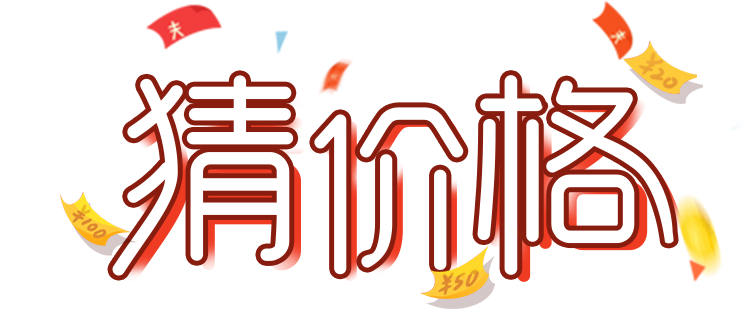
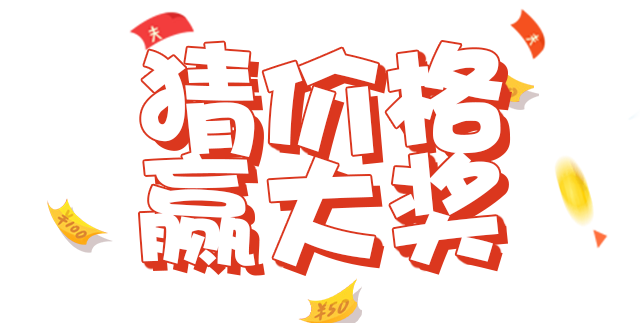
feat 活动规则

diff --git a/styles/common.css b/styles/common.css
@@ -1,1 +1,1 @@
-@import url(../js/lib/animate.css);*{box-sizing:border-box;-webkit-tap-highlight-color:transparent;-webkit-appearance:none}*:focus{outline:none}html,body{margin:0;padding:0;height:100%;background:#FD6B51}ul,li{margin:0;padding:0;list-style:none}#scene1,#scene2{width:16rem;position:fixed;top:0;left:0;right:0;bottom:0;margin:auto}@media screen and (max-height: 1000px){html[data-dpr="2"]{font-size:36.5px !important}}@media screen and (max-height: 1560px){html[data-dpr="3"]{font-size:61.5px !important}}.toast-container{position:fixed;color:#FF281E;font-weight:bold;background:#FFFD65;padding:.64rem .74667rem;font-size:.74667rem;animation-duration:.3s;border-radius:.21333rem 0 0 .21333rem;top:13.01333rem;right:0}.toast-container.top{min-width:100%;top:0;border-radius:0}#scene1{height:100%;background:linear-gradient(to bottom, #ff5d46 60%, #d62514 80%);background-size:100%;display:none}#scene1 .container .title{width:16rem;height:6.61333rem;animation-delay:.5s;animation-duration:.7s;background:url("../img/s1-1.png") no-repeat 0 0;background-size:100%}#scene1 .container .body{width:16rem;height:14.74133rem;background:url("../img/s1-2.png") no-repeat 0 0;background-size:100%}#scene1 .container .action{margin-top:1.06667rem;text-align:center;animation-delay:.9s;animation-duration:.5s}#scene1 .container .action.flash{animation-delay:.5s}#scene1 .container .action button{width:6.80533rem;height:1.74933rem;text-indent:-9999em;border:none;background:url("../img/s1-3.png") no-repeat 0 0;background-size:100%}#scene2{height:100%;display:none;background-image:linear-gradient(180deg, #ff6f55, #db2b13);animation-duration:.4s}#scene2 .ask{animation-name:fadeInUp;animation-delay:.3s;animation-duration:.5s}#scene2 .prices .item{animation-name:fadeInUp;animation-delay:.5s;animation-duration:.5s}#scene2 .goods{width:14.464rem;height:15.72267rem;margin:-.85333rem auto 0;position:relative;background:url("../img/s2-bg.png") no-repeat 0 0;background-size:100%}#scene2 .goods .pin{width:.66133rem;height:.68267rem;content:'';position:absolute;background:url("../img/s2-1.png") no-repeat 0 0;background-size:100%;z-index:5}#scene2 .goods .pin.tl{top:2.13333rem;left:.32rem}#scene2 .goods .pin.tr{top:2.13333rem;right:.64rem}#scene2 .goods .pin.bl{top:14.4rem;left:.32rem}#scene2 .goods .pin.br{top:14.4rem;right:.64rem}#scene2 .goods .img{width:13.952rem;height:13.33333rem;position:absolute;top:1.96267rem;left:.128rem;border-radius:.21333rem;overflow:hidden}#scene2 .goods .img img{width:inherit;height:inherit}#scene2 .goods .img .title{height:2.13333rem;font-size:.59733rem;position:relative;color:#fff;transform:translate(0, -110%);background:rgba(0,0,0,0.5);padding:.21333rem 1.06667rem 0}#scene2 .ask{width:14.464rem;text-align:center;margin:.74667rem auto .32rem}#scene2 .ask img{width:100%;height:100%}#scene2 .prices{width:100%;display:inline-flex;flex-wrap:wrap;justify-content:space-around}#scene2 .prices .item{width:50%;margin-bottom:.85333rem;text-align:center}#scene2 .prices .item button{width:5.97333rem;height:1.344rem;color:#fff;font-size:.85333rem;padding-left:1.45067rem;border:.08533rem solid #fff;border-radius:.64rem;display:inline-block;background:#FF5248;position:relative;box-shadow:.04267rem 0 0 .10667rem #FF7966;transition:.3s;animation-duration:0.1s}#scene2 .prices .item button.flip{animation-duration:1s}#scene2 .prices .item button.success{border-color:#FFFD65}#scene2 .prices .item button.success:before{background:#FFFD65}#scene2 .prices .item button.disabled{color:#cecece;background:#eee}#scene2 .prices .item button.disabled:before{color:#eee;background:#ccc}#scene2 .prices .item button:before{width:1.45067rem;height:1.45067rem;line-height:1.45067rem;position:absolute;font-size:.85333rem;font-weight:bold;top:-.17067rem;left:-.08533rem;color:#E43720;background:#fff;border-radius:50%;content:'￥'}
+@import url(../js/lib/animate.css);*{box-sizing:border-box;-webkit-tap-highlight-color:transparent;-webkit-appearance:none}*:focus{outline:none}html,body{margin:0;padding:0;height:100%;background:#FD6B51}ul,li{margin:0;padding:0;list-style:none}#scene1,#scene2{width:16rem;position:fixed;top:0;left:0;right:0;bottom:0;margin:auto}@media screen and (max-height: 1000px){html[data-dpr="2"]{font-size:36.5px !important}}@media screen and (max-height: 1560px){html[data-dpr="3"]{font-size:61.5px !important}}.toast-container{position:fixed;color:#FF281E;font-weight:bold;background:#FFFD65;padding:.64rem .74667rem;font-size:.74667rem;animation-duration:.3s;border-radius:.21333rem 0 0 .21333rem;top:13.01333rem;right:0}.toast-container.top{min-width:100%;top:0;border-radius:0}#scene1{height:100%;background:linear-gradient(to bottom, #ff5d46 60%, #d62514 80%);background-size:100%;display:none}#scene1 .container .rules{width:1.96267rem;height:2.02667rem;animation-delay:.9s;animation-duration:.7s;background:url("../img/game-rules.png") no-repeat 0 0;background-size:100%;position:absolute;top:0;right:.64rem;z-index:2}#scene1 .container .title{width:16rem;height:8.08533rem;animation-delay:.5s;animation-duration:.7s;background:url("../img/s1-1.png") no-repeat 0 0;background-size:100%;z-index:1}#scene1 .container .body{width:16rem;height:14.74133rem;background:url("../img/s1-2.png") no-repeat 0 0;background-size:100%}#scene1 .container .action{margin-top:1.06667rem;text-align:center;animation-delay:.9s;animation-duration:.5s}#scene1 .container .action.flash{animation-delay:.5s}#scene1 .container .action button{width:6.80533rem;height:1.74933rem;text-indent:-9999em;border:none;background:url("../img/s1-3.png") no-repeat 0 0;background-size:100%}#scene2{height:100%;display:none;background-image:linear-gradient(180deg, #ff6f55, #db2b13);animation-duration:.4s}#scene2 .ask{animation-name:fadeInUp;animation-delay:.3s;animation-duration:.5s}#scene2 .prices .item{animation-name:fadeInUp;animation-delay:.5s;animation-duration:.5s}#scene2 .goods{width:14.464rem;height:15.72267rem;margin:-.85333rem auto 0;position:relative;background:url("../img/s2-bg.png") no-repeat 0 0;background-size:100%}#scene2 .goods .pin{width:.66133rem;height:.68267rem;content:'';position:absolute;background:url("../img/s2-1.png") no-repeat 0 0;background-size:100%;z-index:5}#scene2 .goods .pin.tl{top:2.13333rem;left:.32rem}#scene2 .goods .pin.tr{top:2.13333rem;right:.64rem}#scene2 .goods .pin.bl{top:14.4rem;left:.32rem}#scene2 .goods .pin.br{top:14.4rem;right:.64rem}#scene2 .goods .img{width:13.952rem;height:13.33333rem;position:absolute;top:1.96267rem;left:.128rem;border-radius:.21333rem;overflow:hidden}#scene2 .goods .img img{width:inherit;height:inherit}#scene2 .goods .img .title{height:2.13333rem;font-size:.59733rem;position:relative;color:#fff;transform:translate(0, -110%);background:rgba(0,0,0,0.5);padding:.21333rem 1.06667rem 0}#scene2 .ask{width:14.464rem;text-align:center;margin:.74667rem auto .32rem}#scene2 .ask img{width:100%;height:100%}#scene2 .prices{width:100%;display:inline-flex;flex-wrap:wrap;justify-content:space-around}#scene2 .prices .item{width:50%;margin-bottom:.85333rem;text-align:center}#scene2 .prices .item button{width:5.97333rem;height:1.344rem;color:#fff;font-size:.85333rem;padding-left:1.45067rem;border:.08533rem solid #fff;border-radius:.64rem;display:inline-block;background:#FF5248;position:relative;box-shadow:.04267rem 0 0 .10667rem #FF7966;transition:.3s;animation-duration:0.1s}#scene2 .prices .item button.flip{animation-duration:1s}#scene2 .prices .item button.success{border-color:#FFFD65}#scene2 .prices .item button.success:before{background:#FFFD65}#scene2 .prices .item button.disabled{color:#cecece;background:#eee}#scene2 .prices .item button.disabled:before{color:#eee;background:#ccc}#scene2 .prices .item button:before{width:1.45067rem;height:1.45067rem;line-height:1.45067rem;position:absolute;font-size:.85333rem;font-weight:bold;top:-.17067rem;left:-.08533rem;color:#E43720;background:#fff;border-radius:50%;content:'￥'}

diff --git a/styles/scene1.scss b/styles/scene1.scss
@@ -5,13 +5,27 @@
   display: none;
 
   .container {
+    .rules {
+      width: px2rem(92);
+      height: px2rem(95);
+      animation-delay: .9s;
+      animation-duration: .7s;
+      background: url("../img/game-rules.png") no-repeat 0 0;
+      background-size: 100%;
+      position: absolute;
+      top: 0;
+      right: px2rem(30);
+      z-index: 2;
+    }
+
     .title {
       width: px2rem(750);
-      height: px2rem(310);
+      height: px2rem(379);
       animation-delay: .5s;
       animation-duration: .7s;
       background: url("../img/s1-1.png") no-repeat 0 0;
       background-size: 100%;
+      z-index: 1;
     }
 
     .body {

diff --git a/index.html b/index.html
@@ -8,6 +8,7 @@
 <body>
 <div id="scene1">
     <div class="container">
+        <div class="rules animated fadeInDownBig"></div>
         <div class="title animated fadeInDownBig"></div>
         <div class="body animated zoomInUp"></div>
         <div class="action animated fadeInUp">
